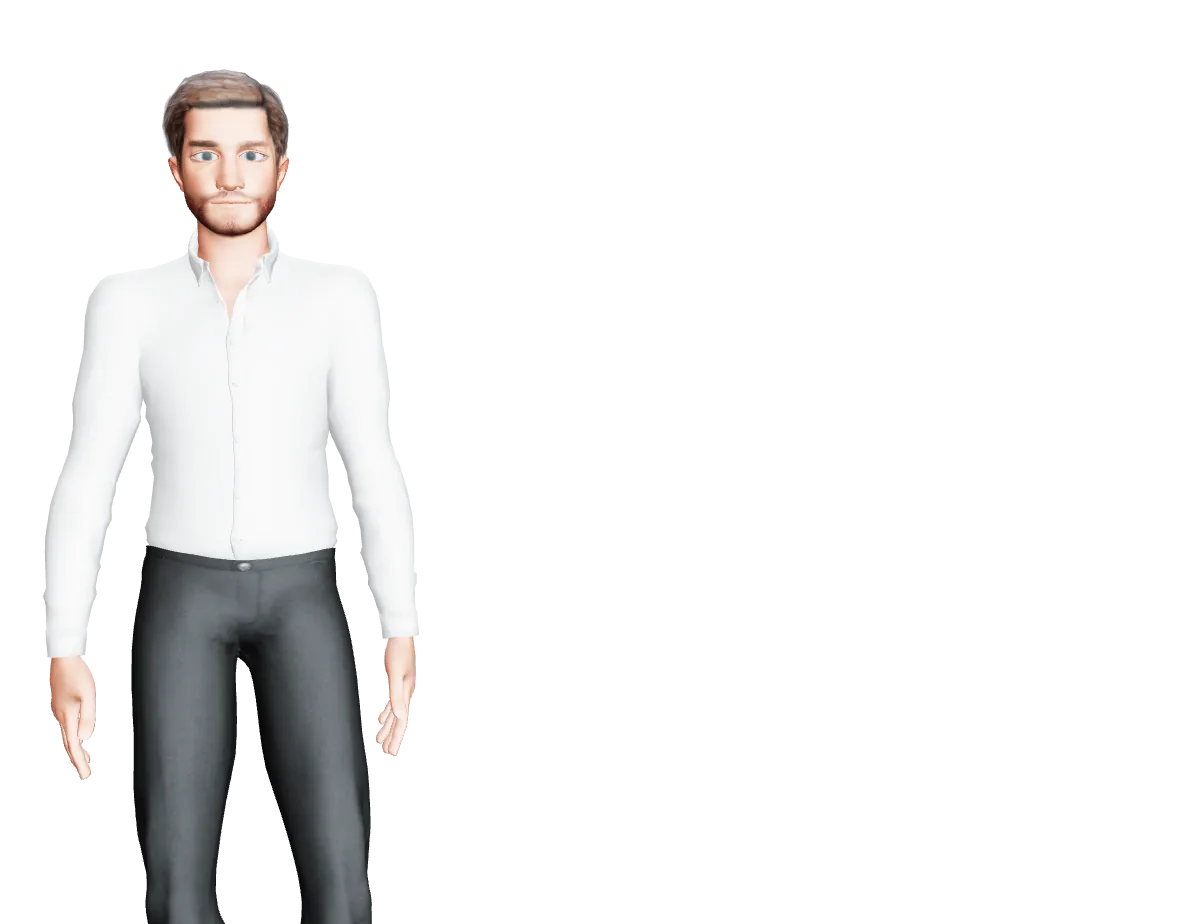
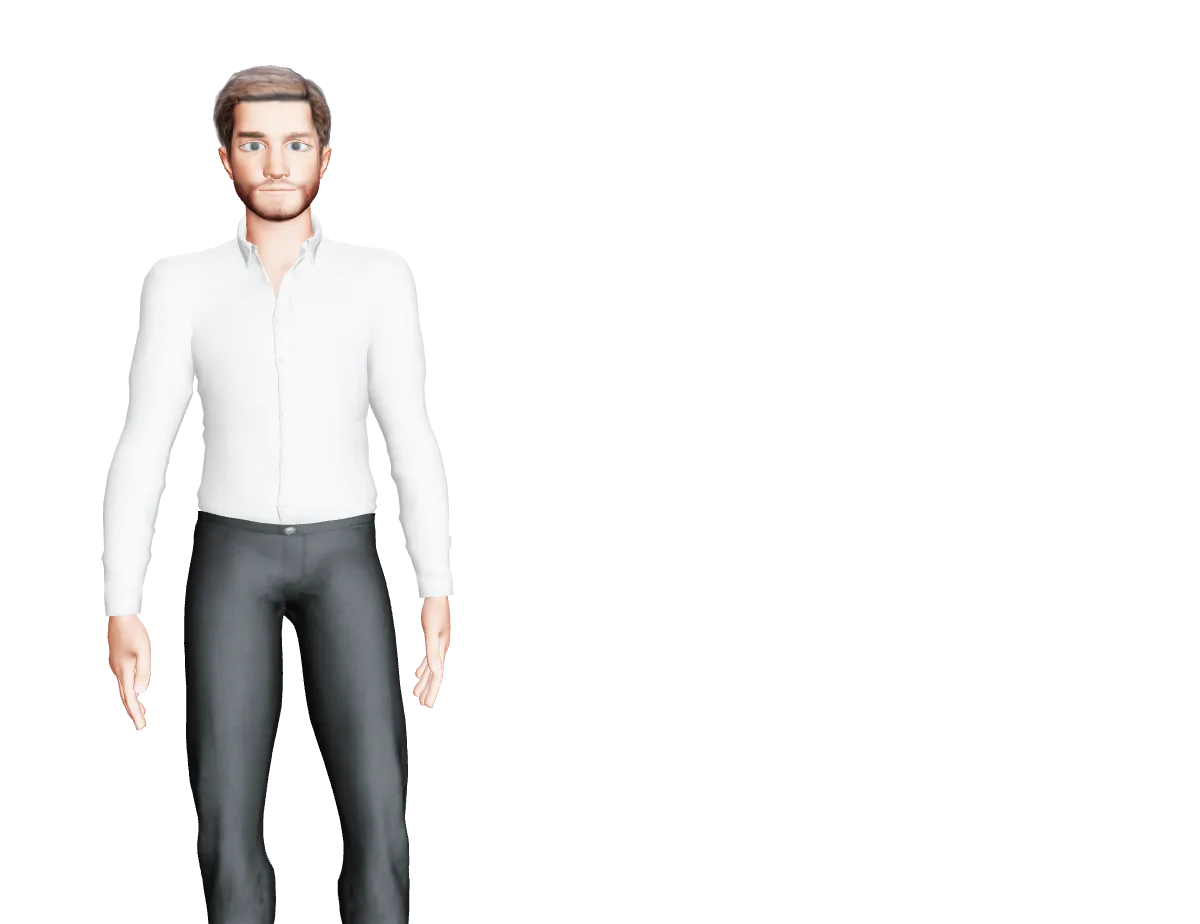
Keep Jake whole in every spot through every gesture
The framings now keep each spot's widest reach in the box: Five Moves'
Imagine spread had run 85 px past the box's left edge, and his thinking
hand 5 px in Ideas. Ideas and Picture share one framing with a margin
for the picture's edge. The Five Moves board is a little taller and its
rows respaced, so the question, its answer and what comes next fit at
1024. A probe-only wide view measures what would fall outside a box.

Changed region(s): [[0.0308, 0.303, 0.4008, 1.0], [0.1233, 0.0606, 0.2775, 0.3333]]

diff --git a/src/components/landing/stage/LandingStage.tsx b/src/components/landing/stage/LandingStage.tsx
@@ -40,7 +40,7 @@ const useHost = () => useSyncExternalStore(subscribe, () => `${host.active}|${ho
  * Runs first each frame: the camera stays at the classroom's eye, looking straight ahead, and the active spot's
  * frustum is applied for the canvas's aspect. Then the stage's own speed check.
  */
-function Framing({ spot, onSlow, judging }: { spot: SpotId; onSlow: () => void; judging: boolean }) {
+function Framing({ spot, onSlow, judging, wide = 0 }: { spot: SpotId; onSlow: () => void; judging: boolean; wide?: number }) {
   const { camera, size } = useThree();
   const cam = camera as PerspectiveCamera;
   const samples = useRef<number[]>([]);
@@ -53,7 +53,15 @@ function Framing({ spot, onSlow, judging }: { spot: SpotId; onSlow: () => void; 
     cam.updateMatrixWorld();
   }, [cam]);
   useFrame((_, dt) => {
-    const f = frustumFor(SPOTS[spot], size.width / Math.max(1, size.height));
+    // `?probe&wide=m` (verification only): LandingRoot grows the layer past the spot's box by m of its width on each
+    // side and m of its height above, and the view grows by the same, so the box shows exactly what it does live and
+    // whatever of him falls outside it is drawn too, to be measured (eval scripts/bounds.cjs).
+    const aspect = (size.width / (1 + 2 * wide)) / Math.max(1, size.height / (1 + wide));
+    const f = frustumFor(SPOTS[spot], aspect);
+    if (wide > 0) {
+      const w = f.right - f.left, h = f.top - f.bottom;
+      f.left -= wide * w; f.right += wide * w; f.top += wide * h;
+    }
     // R3F re-derives the projection from fov and aspect on a resize; this replaces it every frame, before the render.
     cam.projectionMatrix.makePerspective(f.left * NEAR, f.right * NEAR, f.top * NEAR, f.bottom * NEAR, NEAR, FAR);
     cam.projectionMatrixInverse.copy(cam.projectionMatrix).invert();
@@ -293,6 +301,7 @@ export default function LandingStage({ onLive, onSlow }: { onLive: () => void; o
   const active = (activeKey === "null" ? null : activeKey) as SpotId | null;
   const onScreen = onScreenKey === "true";
   const probe = useMemo(() => typeof window !== "undefined" && new URLSearchParams(window.location.search).has("probe"), []);
+  const wide = useMemo(() => (probe ? Number(new URLSearchParams(window.location.search).get("wide")) || 0 : 0), [probe]);
   // The teacher reads a few transient lesson fields from the store (the thinking badge). Coming back to / from
   // /demo by a link keeps them in memory, so clear them. Persisted fields (teacher, course, progress) are untouched.
   useEffect(() => {
@@ -310,7 +319,7 @@ export default function LandingStage({ onLive, onSlow }: { onLive: () => void; o
       className="!h-full !w-full"
       aria-hidden
     >
-      <Framing spot={active} onSlow={onSlow} judging={warm} />
+      <Framing spot={active} onSlow={onSlow} judging={warm} wide={wide} />
       <RendererConfig />
       <SceneLights />
       {/* One boundary: the environment and Jake arrive together, then warm up before he is shown. */}

diff --git a/src/components/landing/stage/spots.ts b/src/components/landing/stage/spots.ts
@@ -43,19 +43,24 @@ export interface SpotFraming {
  */
 export const SPOTS: Record<SpotId, SpotFraming> = {
   // The hero has him on the left, a little closer, with his reach to his left (screen right, towards the buttons)
-  // kept in frame: his right arm at rest (-1.42, with a margin) to past his offering fingertip (PresentModel, 0.01).
-  hero: { top: 1.02, bottom: -0.7, x: -1, fx: 0.26, need: [-1.5, 0.1] },
+  // kept in frame: his right arm at rest (-1.42, its hand to about -1.47, with a margin) to past his offering
+  // fingertip (PresentModel, 0.01).
+  hero: { top: 1.02, bottom: -0.7, x: -1, fx: 0.26, need: [-1.56, 0.1] },
   // A Teacher of Your Own: him alone, centred, his hands in front of his chest (HoldIdea).
   idea: { top: 1.02, bottom: -0.98, x: -1, fx: 0.5, need: [-1.55, -0.45] },
   // The two volcano sections: him on the left and, to his left, the classroom board's own place (Experience
   // SCENE_*: centre 0.37, 0.18, the image 1.455 m square), where the product's pointing clips land. Fixed aspect
-  // (BOARD_ASPECT), so the composition and the stills are the same at every width.
-  ideas: { top: 1.02, bottom: -1.1, x: -1, fx: 0.2 },
-  picture: { top: 1.02, bottom: -1.1, x: -1, fx: 0.2 },
+  // (BOARD_ASPECT), so the composition and the stills are the same at every width. `need` keeps his right hand in the
+  // box while he thinks (it reaches -1.57; eval bounds.cjs) and the board's right edge (1.1; the picture, set back
+  // and enlarged, reaches 1.18), with a margin.
+  ideas: { top: 1.02, bottom: -1.1, x: -1, fx: 0.2, need: [-1.7, 1.24] },
+  picture: { top: 1.02, bottom: -1.1, x: -1, fx: 0.2, need: [-1.7, 1.24] },
   model: { top: 1.02, bottom: -1.1, x: -1, fx: 0.24 },
   // One Lesson, Five Moves: as the volcano spots, him on the left and the classroom's display at the board's place,
-  // where what each move's gesture makes in his hands is set down.
-  moves: { top: 1.02, bottom: -1.1, x: -1, fx: 0.2 },
+  // where what each move's gesture makes in his hands is set down. `need` keeps Imagine's spread in the box (his right
+  // fingertips reach -1.88; eval bounds.cjs) with the board's right edge (1.1): the view grows, he and the board are
+  // drawn a little smaller, and nothing of him is cut off.
+  moves: { top: 1.02, bottom: -1.1, x: -1, fx: 0.2, need: [-1.98, 1.16] },
   close: { top: 1.02, bottom: -0.98, x: -1, fx: 0.5 },
 };
 

diff --git a/src/components/landing/sections/MovesBoard.tsx b/src/components/landing/sections/MovesBoard.tsx
@@ -50,7 +50,7 @@ export const MovesBoard = forwardRef<HTMLDivElement, { armed: boolean; className
         style={style}
       >
         <div aria-hidden className="landing-display-glow absolute inset-0" />
-        <p className="absolute inset-x-0 top-[5%] flex items-center justify-center gap-2 whitespace-nowrap text-[13px] font-semibold text-ink sm:text-[15px]">
+        <p className="absolute inset-x-0 top-[3.5%] flex items-center justify-center gap-2 whitespace-nowrap text-[13px] font-semibold text-ink sm:text-[14px]">
           <Sparkles className="size-4 text-accent-text" aria-hidden />
           {MOVES_COPY.topic}
         </p>
@@ -84,8 +84,8 @@ export const MovesBoard = forwardRef<HTMLDivElement, { armed: boolean; className
                 </span>
                 {/* Its words, to the right of the spine; the first line level with the orb. */}
                 <span className="absolute left-[18px] top-0 flex w-[18rem] max-w-[70cqw] -translate-y-[0.65em] flex-col items-start gap-0.5">
-                  <span className="text-[11.5px] font-semibold leading-tight text-ink sm:text-[13px]">{n.label}</span>
-                  {"tag" in n && <span className="text-[11px] italic leading-tight text-body sm:text-[12px]">{n.tag}</span>}
+                  <span className="text-[11.5px] font-semibold leading-tight text-ink sm:text-[12px] lg:text-[12.5px]">{n.label}</span>
+                  {"tag" in n && <span className="text-[11px] italic leading-tight text-body">{n.tag}</span>}
                   {"answer" in n && (
                     <span data-part="answer" className="landing-board-answer mt-0.5 inline-flex items-center gap-1 whitespace-nowrap rounded-full border border-line bg-surface px-2 py-0.5 text-[11px] font-semibold text-ink sm:text-[12px]">
                       {n.answer}

diff --git a/src/components/landing/LandingRoot.tsx b/src/components/landing/LandingRoot.tsx
@@ -81,16 +81,21 @@ export function LandingRoot() {
   // The layer follows the active spot: its box in the root's coordinates, and shown once the teacher is live there.
   useEffect(() => {
     if (!Stage) return;
+    // `?probe&wide=m` (verification only): the layer reaches past the box, m of its width each side and m of its
+    // height above (LandingStage's Framing grows the view to match), so what falls outside the box can be measured.
+    const params = new URLSearchParams(window.location.search);
+    const wide = params.has("probe") ? Number(params.get("wide")) || 0 : 0;
     const place = () => {
       const el = layer.current, r = root.current;
       const spot = host.active ? spotBox(host.active) : null;
       if (!el || !r || !spot) return;
       const a = spot.getBoundingClientRect(), b = r.getBoundingClientRect();
       const s = el.style;
-      const t = `translate3d(${Math.round(a.left - b.left)}px, ${Math.round(a.top - b.top)}px, 0)`;
+      const dx = wide * a.width, dy = wide * a.height;
+      const t = `translate3d(${Math.round(a.left - b.left - dx)}px, ${Math.round(a.top - b.top - dy)}px, 0)`;
       if (s.transform !== t) s.transform = t;
-      if (s.width !== `${Math.round(a.width)}px`) s.width = `${Math.round(a.width)}px`;
-      if (s.height !== `${Math.round(a.height)}px`) s.height = `${Math.round(a.height)}px`;
+      if (s.width !== `${Math.round(a.width + 2 * dx)}px`) s.width = `${Math.round(a.width + 2 * dx)}px`;
+      if (s.height !== `${Math.round(a.height + dy)}px`) s.height = `${Math.round(a.height + dy)}px`;
       // It fades in once live; it goes out at once, so a move never shows the teacher mid-mount at the new spot.
       const on = host.live !== null && host.live === host.active;
       s.transition = on ? "" : "none";

diff --git a/src/components/landing/content.ts b/src/components/landing/content.ts
@@ -173,17 +173,17 @@ export const MOVES_COPY = {
   topic: "How Volcanoes Erupt",
   board: {
     known: [
-      { label: "Trapped gas pushes out", x: 14, y: 16 },
-      { label: "Hot things rise", x: 14, y: 26 },
+      { label: "Trapped gas pushes out", x: 14, y: 15 },
+      { label: "Hot things rise", x: 14, y: 22.5 },
     ],
-    idea: { label: "Pressure builds underground", tag: "Like a shaken soda bottle", x: 14, y: 39 },
+    idea: { label: "Pressure builds underground", tag: "Like a shaken soda bottle", x: 14, y: 31.5 },
     steps: [
-      { label: "Magma fills the chamber", x: 14, y: 52 },
-      { label: "Forced up the vent", x: 14, y: 61 },
-      { label: "Out as lava", x: 14, y: 70 },
+      { label: "Magma fills the chamber", x: 14, y: 43 },
+      { label: "Forced up the vent", x: 14, y: 50 },
+      { label: "Out as lava", x: 14, y: 57 },
     ],
-    question: { label: "Why does one explode and one ooze?", answer: "Thick magma traps the gas", x: 14, y: 81 },
-    next: { label: "Next: types of volcanoes", x: 14, y: 93 },
+    question: { label: "Why does one explode and one ooze?", answer: "Thick magma traps the gas", x: 14, y: 67 },
+    next: { label: "Next: types of volcanoes", x: 14, y: 88 },
   },
 } as const;
 

diff --git a/src/components/landing/sections/Moves.tsx b/src/components/landing/sections/Moves.tsx
@@ -15,6 +15,11 @@ import { MovesHands } from "./MovesHands";
 
 const CUES = MOVES_T.at;
 const BOX = boardBox("moves");
+/**
+ * The board is the classroom board's width at its place, and a little taller, an outline's shape: nothing he does
+ * points at it (each piece flies to its place), so it can be, and the outline's rows need the room.
+ */
+const BOARD_TALL = 1.18;
 
 /**
  * One Lesson, Five Moves (V8.3b): the five moves in plain words (messaging.md), told as one story. Jake makes each
@@ -91,11 +96,11 @@ export function Moves({ mode }: { mode: LandingMode | null }) {
                 ref={board}
                 armed={armed}
                 className="absolute"
-                style={{ left: `${BOX.left}%`, top: `${BOX.top}%`, width: `${BOX.width}%`, height: `${BOX.height}%` }}
+                style={{ left: `${BOX.left}%`, top: `${BOX.top}%`, width: `${BOX.width}%`, height: `${BOX.height * BOARD_TALL}%` }}
               />
             }
           />
-          <MovesBoard armed={false} className="relative aspect-square w-full sm:hidden" />
+          <MovesBoard armed={false} className="relative aspect-[1/1.18] w-full sm:hidden" />
         </div>
         {armed && <MovesHands wrap={wrap} board={board} />}
       </div>
